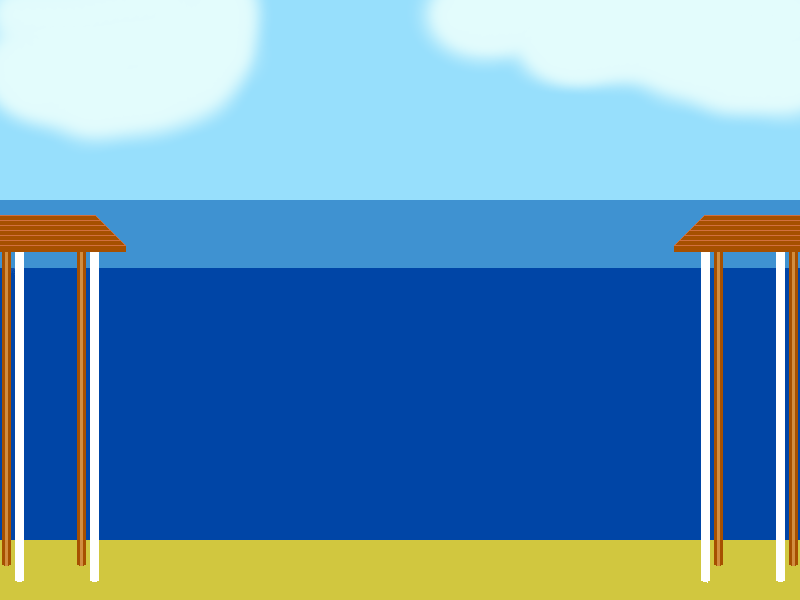
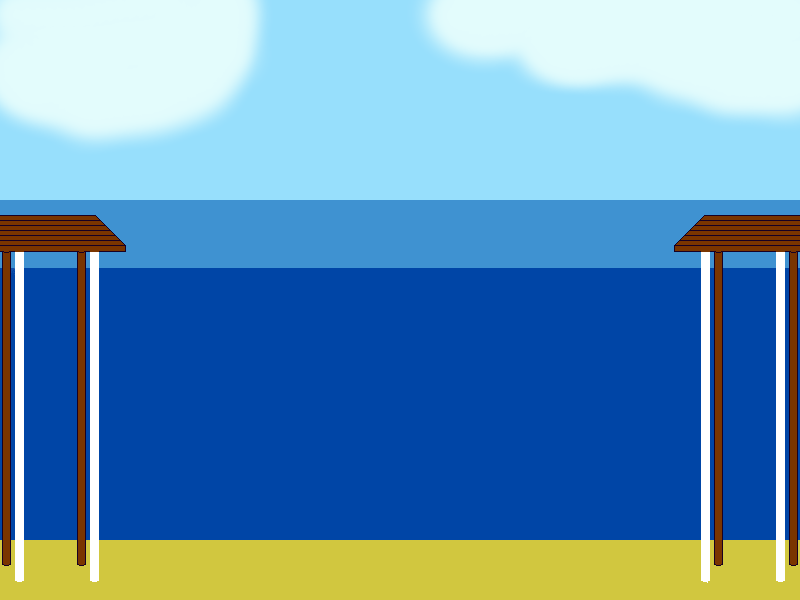
Updated art. Sped up shark. Fixed bitepoint
Line:   Adjusted bitepoint to be in the middle of hook, where a worm is now
drawn.
HumanPlayer:    Made hook rest on sea floor, rather than too low
MainGameScene:  Loaded new scene graphic.
Shark:  Made faster in all three states

svn path=/trunk/; revision=114

Changed region(s): [[0.8438, 0.36, 1.0, 0.96], [0.0, 0.36, 0.1562, 0.96]]

diff --git a/Source/Line.cpp b/Source/Line.cpp
@@ -311,6 +311,12 @@ void Line::initialize(boost::shared_ptr<Player> &newPlayer,
     initialHookPoint.x = hookPoint->x;
     initialHookPoint.y = hookPoint->y;
 
+    boost::shared_ptr<Point> tmpBitePoint(new Point);
+    bitePoint = tmpBitePoint;
+
+    BoundingBox tmpBiteBox(bitePoint, hookSize);
+    biteBox = tmpBiteBox;
+
     lineIDNumber = highestIdNumberGiven()++; 
 }
 
@@ -420,6 +426,7 @@ void Line::move(Uint32 elapsedTime, double &coordinate, double velocity)
     boost::shared_ptr<Collidable> sharedThis( shared_from_this() );
     sharedOcean->checkCollisions(sharedThis, poleBox);
     sharedOcean->checkCollisions(sharedThis, hookBox);
+    sharedOcean->checkCollisions(sharedThis, biteBox);
 }
 
 void Line::pullFish()
@@ -807,6 +814,16 @@ void Line::NotHookedState::clockTick(Uint32 elapsedTime)
 {
     move(elapsedTime);
     settle(elapsedTime);
+
+    boost::shared_ptr<Line> sharedLineOwner = lineOwner.lock();
+
+    if( !sharedLineOwner )
+        return;
+
+    sharedLineOwner->bitePoint->x = sharedLineOwner->hookPoint->x - 4.0 -
+        sharedLineOwner->hookSize->width / 2.0;
+    sharedLineOwner->bitePoint->y = sharedLineOwner->hookPoint->y + 5.0 -
+        sharedLineOwner->hookSize->height / 2.0;
 }
 
 void Line::NotHookedState::pullFish()
@@ -832,7 +849,7 @@ void Line::NotHookedState::collidesWith(boost::shared_ptr<Collidable>
     if( !sharedLineOwner )
         return;
 
-    if( sharedLineOwner->hookBox.isCollision(otherBox) )
+    if( sharedLineOwner->biteBox.isCollision(otherBox) )
         otherObject->collidesWithHook(sharedLineOwner, otherBox);
 }
 
@@ -942,8 +959,12 @@ void Line::NotHookedState::collidesWithFishMouth(boost::shared_ptr<Fish> &fish,
     if( !sharedLineOwner )
         return;
 
-    fish->hookedBy(sharedLineOwner, sharedLineOwner->owner);
-    sharedLineOwner->hooked(fish);
+
+    if( &yourBox == &(sharedLineOwner->biteBox) )
+    {
+        fish->hookedBy(sharedLineOwner, sharedLineOwner->owner);
+        sharedLineOwner->hooked(fish);
+    }
 }
 
 void Line::NotHookedState::collidesWithSeaSnail(boost::shared_ptr<SeaSnail> 
@@ -1131,7 +1152,7 @@ void Line::HookedState::collidesWith(boost::shared_ptr<Collidable> &otherObject,
     if( !sharedLineOwner )
         return;
 
-    if( sharedLineOwner->hookBox.isCollision(otherBox) )
+    if( sharedLineOwner->biteBox.isCollision(otherBox) )
         otherObject->collidesWithHook(sharedLineOwner, otherBox);
 }
 

diff --git a/Source/Shark.cpp b/Source/Shark.cpp
@@ -428,7 +428,7 @@ void Shark::AttackState::initialize(boost::weak_ptr<Shark> owner)
 
 double Shark::AttackState::calculatePixelsLeft(Uint32 elapsedTime)
 {
-    const double ATTACK_SHARK_VELOCITY = 0.2;
+    const double ATTACK_SHARK_VELOCITY = 0.3;
     return ATTACK_SHARK_VELOCITY * elapsedTime;
 }
 
@@ -609,7 +609,7 @@ void Shark::PatrolState::initialize(boost::weak_ptr<Shark> owner)
 
 double Shark::PatrolState::calculatePixelsLeft(Uint32 elapsedTime)
 {
-    const double PATROL_SHARK_VELOCITY = 0.07;
+    const double PATROL_SHARK_VELOCITY = 0.14;
     return PATROL_SHARK_VELOCITY * elapsedTime;
 }
 
@@ -797,7 +797,7 @@ void Shark::GlowState::initialize(boost::weak_ptr<Shark> owner)
 
 double Shark::GlowState::calculatePixelsLeft(Uint32 elapsedTime)
 {
-    const double GLOW_SHARK_VELOCITY = 0.3;
+    const double GLOW_SHARK_VELOCITY = 0.4;
     return GLOW_SHARK_VELOCITY * elapsedTime;
 }
 

diff --git a/Source/MainGameScene.cpp b/Source/MainGameScene.cpp
@@ -79,7 +79,7 @@ const Dimension &MainGameScene::MOWHAWK_FISHER_SIZE()
 
 const std::string &MainGameScene::BACKGROUND_PATH()
 {
-    static std::string TMP_BACKGROUND_PATH = "../Media/Scene5.png";
+    static std::string TMP_BACKGROUND_PATH = "../Media/Scene6.png";
     return TMP_BACKGROUND_PATH;
 }
 
@@ -215,7 +215,7 @@ void MainGameScene::enter()
     boost::weak_ptr<Collidable> playerCollidable(player1);
     ocean->addCollidable(playerCollidable);
     player1->loadImage(*renderer);
-    renderer->loadImage("../Media/Scene5.png");
+    renderer->loadImage("../Media/Scene6.png");
     renderer->loadImage("../Media/MowhawkFisher.png");
     renderer->loadImage("../Media/ElderFisher.png");
     renderer->loadImage("../Media/DockSupports2.png");

diff --git a/Header/Line.hpp b/Header/Line.hpp
@@ -279,12 +279,14 @@ private:
     int lineIDNumber;
     BoundingBox poleBox;
     BoundingBox hookBox;
+    BoundingBox biteBox;
     boost::weak_ptr<Player> owner;
     boost::weak_ptr<Ocean> ocean;
     boost::shared_ptr<Point> polePoint;
     boost::shared_ptr<Dimension> poleSize;
     boost::shared_ptr<Point> hookPoint;
     boost::shared_ptr<Dimension> hookSize;
+    boost::shared_ptr<Point> bitePoint;
     boost::weak_ptr<Fish> hookedFish;
     Point initialPolePoint;
     Point initialHookPoint;

diff --git a/Source/HumanPlayer.cpp b/Source/HumanPlayer.cpp
@@ -50,7 +50,7 @@ HumanPlayer::HumanPlayer(const Point &polePoint, const Point
     //From dock to middle.
     //From polePoint.y to just above bottom of screen
     //May need some adjusting
-    Dimension tmpDimension = { 273.0, 600.0 - polePoint.y - 25.0 };
+    Dimension tmpDimension = { 273.0, 600.0 - polePoint.y - 35.0 };
     boost::shared_ptr<Dimension> tmpPoleAreaSize(new Dimension(tmpDimension));
     poleAreaSize = tmpPoleAreaSize;
     BoundingBox tmpBox(poleAreaPoint, poleAreaSize);
